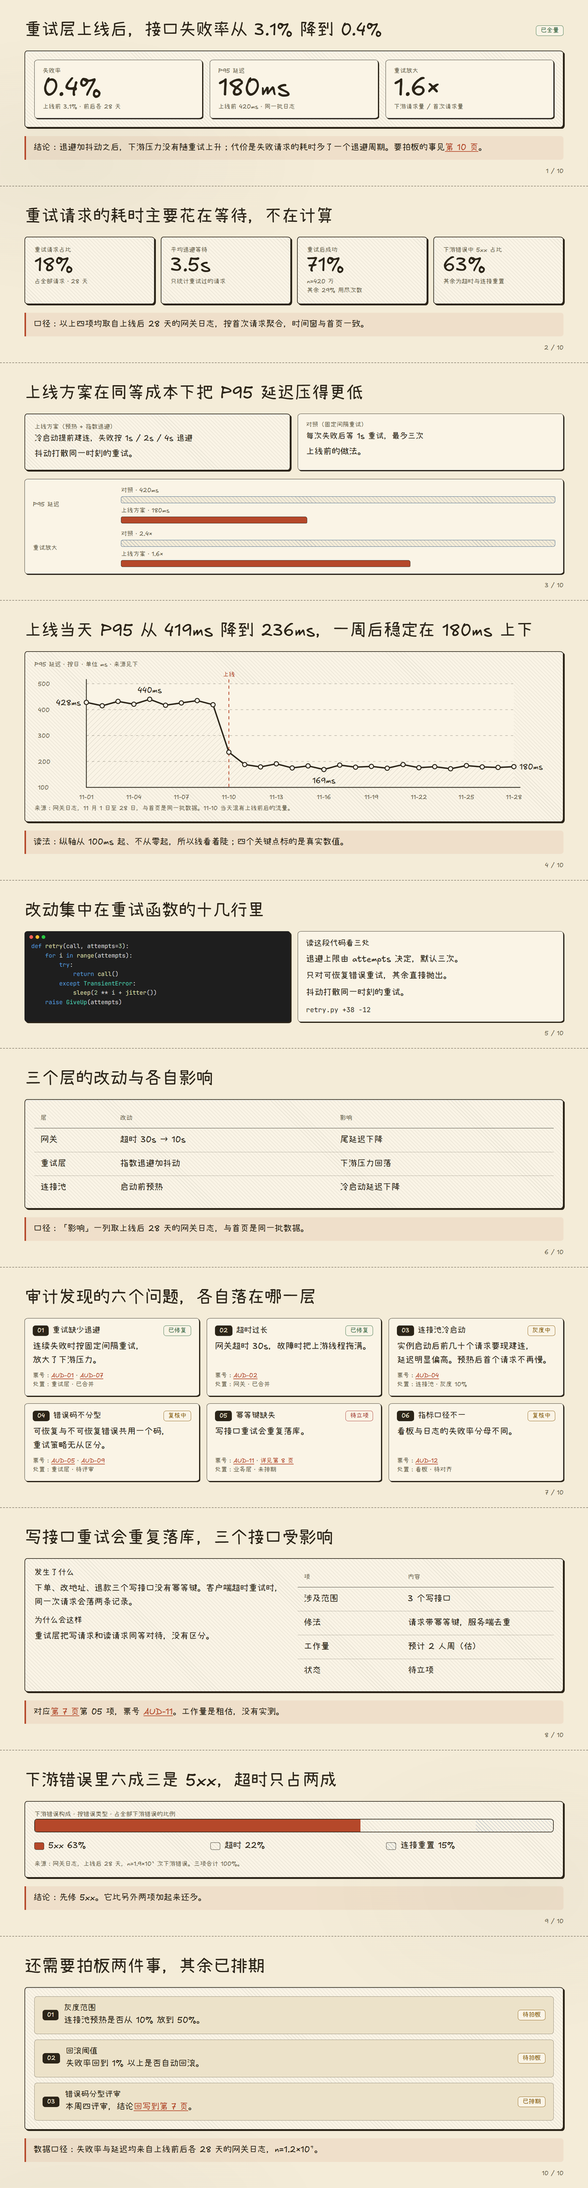
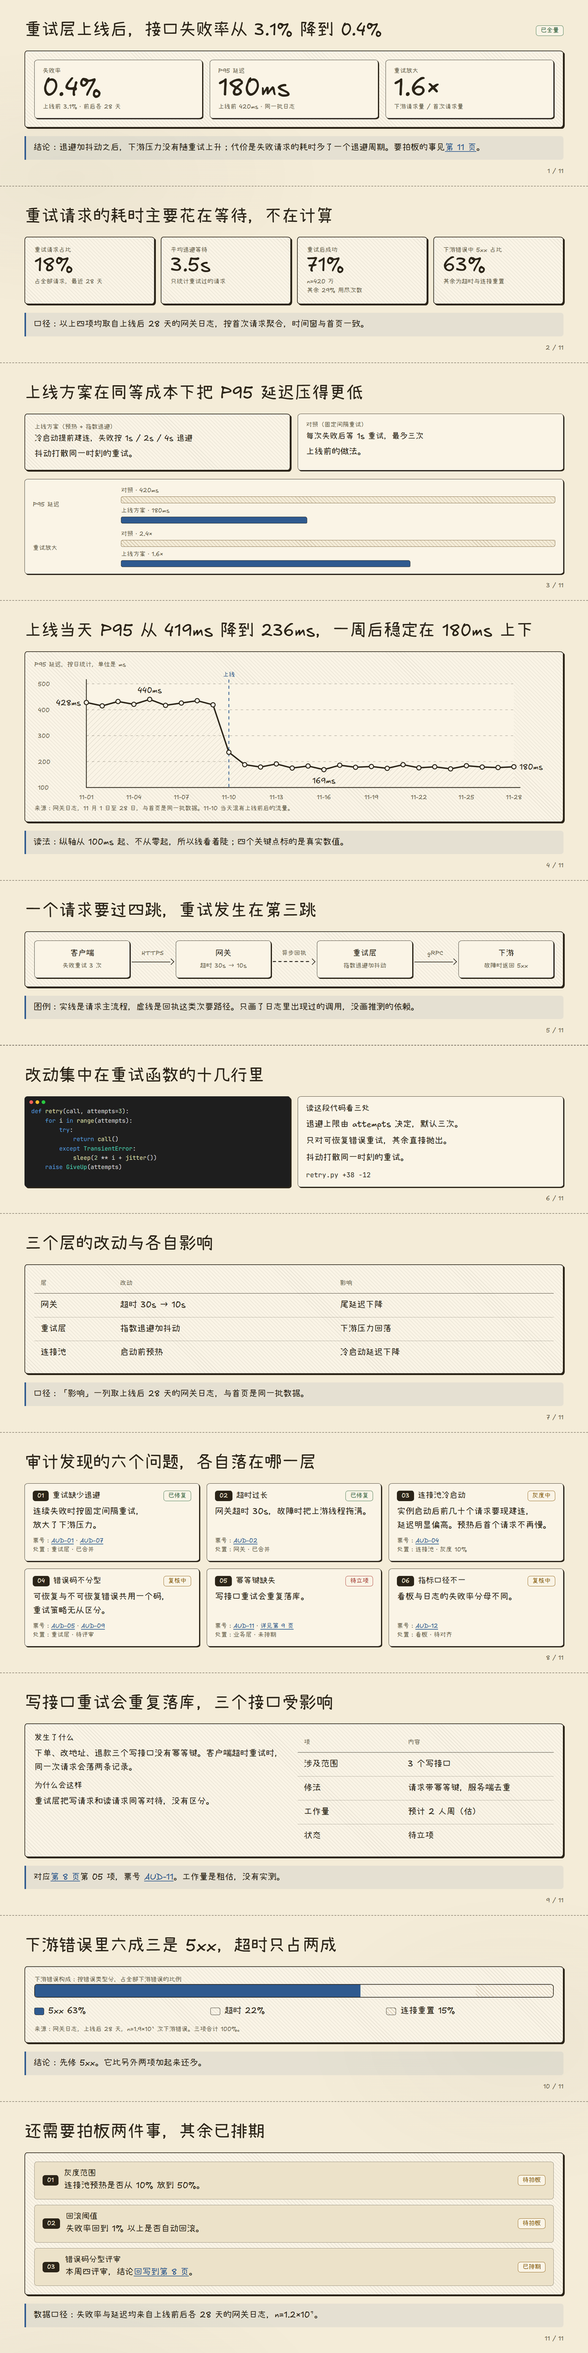
吸收 impeccable / Anthropic 官方 skill / superpowers / 中文写作规范：设计、文案与验证三轮升级
均为思路层面借鉴（impeccable Apache-2.0、Anthropic skills Apache-2.0、superpowers MIT、
zh-tech-writing / 中文文案排版指北 / document-style-guide / dataviz-skills MIT 或公共领域），
未拷用代码与文字；README 已列来源。

模板：
- 强调色从陶土橙换成批注蓝，对照色改铅笔棕——避开 frontend-design 点名的"米色底 + 陶土强调"AI 特征；
  语义色（绿 / 琥珀 / 红）单独一套
- 浏览器自带表面：选中色用墨色、键盘焦点用批注蓝环；图表数字用 tabular-nums
- 标题 text-wrap: balance、正文 text-wrap: pretty，减少孤字孤行
- 新增页型「链路」：.flow + .node + .link（dashed = 次要或异步），带标签的箭头，共 11 页

SKILL.md：
- 结构草案：先读材料再提问、只问会改变结构的问题、"用户给的 / 我补的"分两栏、结构有歧义时给两套骨架、
  粒度跟着读者走、3P 骨架、报体量；确认后固化一张数字口径表
- 验证改成三级：先截图目检（六问）再看探针（避免锚定）→ 可选读者测试（无上下文子代理只读成品回答五问）；
  说"已检"必须有本次运行的证据，降级和没做的检查写明
- 交付前收尾三遍：删（不承担信息的元素）／磨（对齐、分组、同类同写法）／清（调试残留）
- 更新已有 deck："改而不换"，顺手改事实性文案或加结论先问
- 内容纪律：AI 腔清单（大幅提升 / 开场结尾套话 / 硬凑三点 / 不是 A 而是 B / 宣传腔）、
  句长 ≤40 字与段落 ≤7 行、用读者懂的话称呼、术语全篇统一、千分号与范围单位、
  性能数字四披露（机器版本 / 负载 / 测量方法 / 时间窗）、歧义取更弱说法、限定词不压掉
- 视觉：Read 模式定位、排版节奏（行长 / 间距 / 编号只在真序列）、中文排版（中英文留空格、全角标点、
  半角数字）、浏览器表面、示意图规则（只画有依据的关系、节点 ≤6、线型含义）
- 图表补充：双 Y 轴不做、排行按大小排、不挑数据、能直接标不放图例、数字取整、标签不旋转、
  有波动给范围、颜色与纹理含义全文固定

探针：新增 cjkSpacing（中英文之间缺空格）与 longText（句子 >60 字或分句 >40 字），均为 WARN

Changed region(s): [[0.0312, 0.0, 0.9688, 0.9955], [0.9062, 0.0, 0.9688, 0.0311], [0.9375, 0.1244, 0.9688, 0.1555]]

diff --git a/assets/template.html b/assets/template.html
@@ -24,13 +24,13 @@
   --ink-35:rgba(43,36,24,.35);
   --ink-50:rgba(43,36,24,.5);
   --muted:#6a5f4b;
-  --accent:#b5482a;
-  --alt:#3d5a80;
+  --accent:#2f5a8f;   /* 批注蓝：链接、强调、主项 */
+  --alt:#7a5f36;      /* 铅笔棕：对照项、基线 */
   --good:#35693f;
   --warn:#8a5a0b;
   --bad:#a8322a;
   --hachure:repeating-linear-gradient(45deg,transparent 0 7px,rgba(43,36,24,.09) 7px 8.5px);
-  --hachure-alt:repeating-linear-gradient(45deg,transparent 0 7px,rgba(61,90,128,.28) 7px 8.5px);
+  --hachure-alt:repeating-linear-gradient(45deg,transparent 0 7px,rgba(122,95,54,.30) 7px 8.5px);
   --fs-stat:80px;
   --fs-readout:64px;
   --fs-title:56px;
@@ -53,6 +53,9 @@ body {
 }
 h1, h2, h3, p { margin:0; font-weight:400; } /* 手写体只有单字重：层级靠字号与颜色，不靠加粗（合成加粗会发糊） */
 a { color:var(--accent); text-decoration:underline; text-decoration-thickness:1.5px; text-underline-offset:4px; }
+/* 浏览器自带的表面也属于这套设计：选中色、键盘焦点环 */
+::selection { background:var(--ink); color:var(--paper); }
+a:focus-visible, [tabindex]:focus-visible { outline:3px solid var(--accent); outline-offset:4px; border-radius:4px; }
 
 .stage { width:1920px; transform-origin:top left; }
 .deck { width:1920px; }
@@ -83,6 +86,10 @@ a { color:var(--accent); text-decoration:underline; text-decoration-thickness:1.
 .t-readout { font-size:var(--fs-readout); line-height:1.15; }
 .t-stat    { font-size:var(--fs-stat); line-height:1.1; }
 .t-mono-md { font-family:var(--font-mono); font-size:var(--fs-mono-md); line-height:1.5; }
+/* 标题用 balance 折行、正文用 pretty 折行：减少标题孤字和末行只剩一个词的孤行（浏览器不支持时照旧） */
+.t-title, .t-h3 { text-wrap:balance; }
+.t-body, .t-micro { text-wrap:pretty; }
+.t-stat, .t-readout { font-variant-numeric:tabular-nums; }
 
 /* ---- 卡片四级：硬度逐级递减，不许倒挂，不许拿裸 --paper 填卡片 ---- */
 .card {
@@ -109,7 +116,7 @@ a { color:var(--accent); text-decoration:underline; text-decoration-thickness:1.
   padding:16px 24px;
   border-left:5px solid var(--accent);
   border-radius:0 9px 9px 0;
-  background:rgba(181,72,42,.08);
+  background:rgba(47,90,143,.08);
 }
 
 /* ---- 徽标：good = 定了不用再跟；warn = 进行中或等结论；bad = 没开始或被卡住 ---- */
@@ -164,6 +171,25 @@ a { color:var(--accent); text-decoration:underline; text-decoration-thickness:1.
 .legend { display:grid; grid-template-columns:repeat(3, minmax(0,1fr)); gap:16px 28px; margin-top:22px; }
 .legend > div { display:flex; align-items:center; gap:14px; }
 .legend i.sw { width:32px; height:24px; border:1.5px solid var(--ink); border-radius:4px 6px 5px 7px; flex:none; }
+
+/* ---- 链路：请求经过的节点和连线。实线 = 主流程，虚线 = 次要或异步；箭头上的标签说明关系 ---- */
+.flow { display:flex; align-items:stretch; }
+.flow > .node {
+  flex:1 1 0; min-width:0; display:flex; flex-direction:column; justify-content:center; gap:6px;
+  padding:24px 18px; text-align:center;
+  border:1.5px solid var(--ink); border-radius:11px 8px 12px 9px / 9px 12px 8px 11px;
+  background:var(--paper-2); box-shadow:3px 3px 0 var(--ink);
+}
+.flow > .node > .t-micro { margin:0; }
+.flow > .link { position:relative; flex:0 0 150px; align-self:center; height:64px; }
+.flow > .link::before { content:''; position:absolute; left:6px; right:18px; top:40px; border-top:2.5px solid var(--ink); }
+.flow > .link::after {
+  content:''; position:absolute; right:8px; top:40px; width:13px; height:13px;
+  border-top:2.5px solid var(--ink); border-right:2.5px solid var(--ink);
+  transform:translateY(-50%) rotate(45deg);
+}
+.flow > .link.dashed::before { border-top:none; height:3px; top:calc(40px - 1.5px); background:repeating-linear-gradient(90deg, var(--ink) 0 10px, transparent 10px 18px); }
+.flow > .link > span { position:absolute; left:0; right:0; top:0; text-align:center; font-size:var(--fs-label); line-height:1.3; color:var(--muted); white-space:nowrap; }
 
 /* ---- 趋势：折线图由脚本按数据画出来，坐标不手填 ---- */
 .chart-line svg { display:block; width:100%; height:auto; }
@@ -262,8 +288,8 @@ a { color:var(--accent); text-decoration:underline; text-decoration-thickness:1.
       </div>
     </div>
   </div>
-  <div class="anno rv">结论：退避加抖动之后，下游压力没有随重试上升；代价是失败请求的耗时多了一个退避周期。要拍板的事见<a href="#next">第 10 页</a>。</div>
-  <div class="pageno">1 / 10</div>
+  <div class="anno rv">结论：退避加抖动之后，下游压力没有随重试上升；代价是失败请求的耗时多了一个退避周期。要拍板的事见<a href="#next">第 11 页</a>。</div>
+  <div class="pageno">1 / 11</div>
 </section>
 
 <!-- ========== 页型 2 · 读数行：t-readout + 口径。数字与单位用 &nbsp; 焊死；每行不超过 18 个汉字，超了主动 <br> ========== -->
@@ -273,7 +299,7 @@ a { color:var(--accent); text-decoration:underline; text-decoration-thickness:1.
     <div class="card rv">
       <div class="t-label">重试请求占比</div>
       <div class="t-readout">18%</div>
-      <p class="t-micro">占全部请求&nbsp;·&nbsp;28 天</p>
+      <p class="t-micro">占全部请求，最近 28&nbsp;天</p>
     </div>
     <div class="card rv">
       <div class="t-label">平均退避等待</div>
@@ -292,7 +318,7 @@ a { color:var(--accent); text-decoration:underline; text-decoration-thickness:1.
     </div>
   </div>
   <div class="anno rv">口径：以上四项均取自上线后 28 天的网关日志，按首次请求聚合，时间窗与首页一致。</div>
-  <div class="pageno">2 / 10</div>
+  <div class="pageno">2 / 11</div>
 </section>
 
 <!-- ========== 页型 3 · A/B 对比：主推项 hachure 卡，对照项素色卡；对比条线型 + 色相双重区分 ========== -->
@@ -327,24 +353,43 @@ a { color:var(--accent); text-decoration:underline; text-decoration-thickness:1.
       <div class="bar" style="--v:1.6;--max:2.4"></div>
     </div>
   </div>
-  <div class="pageno">3 / 10</div>
+  <div class="pageno">3 / 11</div>
 </section>
 
 <!-- ========== 页型 4 · 趋势：折线图由数据画出来，坐标不手填。数值只标在起点、终点、最高、最低四个点上；data-mark 标事件。时间间隔不等的数不要用它画 ========== -->
 <section class="slide" id="trend">
   <header class="rv"><h2 class="t-title">上线当天 P95 从 419ms 降到 236ms，一周后稳定在 180ms 上下</h2></header>
   <div class="card rv">
-    <div class="t-label">P95 延迟 · 按日 · 单位 ms · 来源见下</div>
+    <div class="t-label">P95 延迟，按日统计，单位是 ms</div>
     <div class="chart-line" data-unit="ms" data-title="P95 延迟按日走势" data-mark="11-10" data-mark-text="上线"
       data-labels="11-01,11-02,11-03,11-04,11-05,11-06,11-07,11-08,11-09,11-10,11-11,11-12,11-13,11-14,11-15,11-16,11-17,11-18,11-19,11-20,11-21,11-22,11-23,11-24,11-25,11-26,11-27,11-28"
       data-values="428,415,432,421,440,417,426,435,419,236,188,179,191,175,183,169,186,178,181,174,188,176,180,172,184,179,177,180"></div>
     <p class="t-micro">来源：网关日志，11 月 1 日至 28 日，与首页是同一批数据。11-10 当天混有上线前后的流量。</p>
   </div>
   <div class="anno rv">读法：纵轴从 100ms 起、不从零起，所以线看着陡；四个关键点标的是真实数值。</div>
-  <div class="pageno">4 / 10</div>
+  <div class="pageno">4 / 11</div>
 </section>
 
-<!-- ========== 页型 5 · 代码窗：每窗不超过 22 行，只用 ASCII（JBM 子集只有 ASCII），< > { } 写成转义 ========== -->
+<!-- ========== 页型 5 · 链路：请求经过哪几跳。节点用 .node，连线用 .link（加 dashed 表示次要或异步），箭头上的标签说明关系。
+     只画材料里有依据的调用关系，不画推测的依赖 ========== -->
+<section class="slide" id="path">
+  <header class="rv"><h2 class="t-title">一个请求要过四跳，重试发生在第三跳</h2></header>
+  <div class="card rv">
+    <div class="flow">
+      <div class="node"><div class="t-h3">客户端</div><p class="t-micro">失败重试 3 次</p></div>
+      <div class="link"><span>HTTPS</span></div>
+      <div class="node"><div class="t-h3">网关</div><p class="t-micro">超时 30s → 10s</p></div>
+      <div class="link dashed"><span>异步回执</span></div>
+      <div class="node"><div class="t-h3">重试层</div><p class="t-micro">指数退避加抖动</p></div>
+      <div class="link"><span>gRPC</span></div>
+      <div class="node"><div class="t-h3">下游</div><p class="t-micro">故障时返回 5xx</p></div>
+    </div>
+  </div>
+  <div class="anno rv">图例：实线是请求主流程，虚线是回执这类次要路径。只画了日志里出现过的调用，没画推测的依赖。</div>
+  <div class="pageno">5 / 11</div>
+</section>
+
+<!-- ========== 页型 6 · 代码窗：每窗不超过 22 行，只用 ASCII（JBM 子集只有 ASCII），< > { } 写成转义 ========== -->
 <section class="slide">
   <header class="rv"><h2 class="t-title">改动集中在重试函数的十几行里</h2></header>
   <div class="grid2">
@@ -366,10 +411,10 @@ a { color:var(--accent); text-decoration:underline; text-decoration-thickness:1.
       <p class="t-mono-md" style="margin-top:auto;padding-top:16px">retry.py  +38 -12</p>
     </div>
   </div>
-  <div class="pageno">5 / 10</div>
+  <div class="pageno">6 / 11</div>
 </section>
 
-<!-- ========== 页型 6 · 简表：格子都是短语时才用 dtable。段落、链接多的账目改用页型 7。两列表把 data-cols 改成 "2" ========== -->
+<!-- ========== 页型 7 · 简表：格子都是短语时才用 dtable。段落、链接多的账目改用页型 8。两列表把 data-cols 改成 "2" ========== -->
 <section class="slide">
   <header class="rv"><h2 class="t-title">三个层的改动与各自影响</h2></header>
   <div class="card rv">
@@ -381,10 +426,10 @@ a { color:var(--accent); text-decoration:underline; text-decoration-thickness:1.
     </div>
   </div>
   <div class="anno rv">口径：「影响」一列取上线后 28 天的网关日志，与首页是同一批数据。</div>
-  <div class="pageno">6 / 10</div>
+  <div class="pageno">7 / 11</div>
 </section>
 
-<!-- ========== 页型 7 · 账目卡阵：N 层 × 属性的账目用均质卡。每卡固定四槽：① 徽标行 ② 正文 ③ 票号链接 ④ 处置；③④ 沉底对齐。示例里的票号链接是 href="#" 占位，要换成真实地址 ========== -->
+<!-- ========== 页型 8 · 账目卡阵：N 层 × 属性的账目用均质卡。每卡固定四槽：① 徽标行 ② 正文 ③ 票号链接 ④ 处置；③④ 沉底对齐。示例里的票号链接是 href="#" 占位，要换成真实地址 ========== -->
 <section class="slide" id="ledger">
   <header class="rv"><h2 class="t-title">审计发现的六个问题，各自落在哪一层</h2></header>
   <div class="grid3">
@@ -444,7 +489,7 @@ a { color:var(--accent); text-decoration:underline; text-decoration-thickness:1.
       </div>
       <p class="t-body" style="margin-top:12px">写接口重试会重复落库。</p>
       <div style="margin-top:auto;padding-top:12px">
-        <p class="t-micro">票号：<a href="#">AUD-11</a> · <a href="#idempotency">详见第 8 页</a></p>
+        <p class="t-micro">票号：<a href="#">AUD-11</a> · <a href="#idempotency">详见第 9 页</a></p>
         <p class="t-micro">处置：业务层 · 未排期</p>
       </div>
     </div>
@@ -461,10 +506,10 @@ a { color:var(--accent); text-decoration:underline; text-decoration-thickness:1.
       </div>
     </div>
   </div>
-  <div class="pageno">7 / 10</div>
+  <div class="pageno">8 / 11</div>
 </section>
 
-<!-- ========== 页型 8 · 单点展开：把一个问题单独讲透。左边讲发生了什么、为什么，右边一张"项 / 内容"两列表放范围、修法、工作量 ========== -->
+<!-- ========== 页型 9 · 单点展开：把一个问题单独讲透。左边讲发生了什么、为什么，右边一张"项 / 内容"两列表放范围、修法、工作量 ========== -->
 <section class="slide" id="idempotency">
   <header class="rv"><h2 class="t-title">写接口重试会重复落库，三个接口受影响</h2></header>
   <div class="card rv">
@@ -484,15 +529,15 @@ a { color:var(--accent); text-decoration:underline; text-decoration-thickness:1.
       </div>
     </div>
   </div>
-  <div class="anno rv">对应<a href="#ledger">第 7 页</a>第 05 项，票号 <a href="#">AUD-11</a>。工作量是粗估，没有实测。</div>
-  <div class="pageno">8 / 10</div>
+  <div class="anno rv">对应<a href="#ledger">第 8 页</a>第 05 项，票号 <a href="#">AUD-11</a>。工作量是粗估，没有实测。</div>
+  <div class="pageno">9 / 11</div>
 </section>
 
-<!-- ========== 页型 9 · 构成：百分比堆叠条。段宽就是占比（--v），合计必须是 100；主角用实色，其余用斜纹 ========== -->
+<!-- ========== 页型 10 · 构成：百分比堆叠条。段宽就是占比（--v），合计必须是 100；主角用实色，其余用斜纹 ========== -->
 <section class="slide" id="mix">
   <header class="rv"><h2 class="t-title">下游错误里六成三是 5xx，超时只占两成</h2></header>
   <div class="card rv">
-    <div class="t-label">下游错误构成 · 按错误类型 · 占全部下游错误的比例</div>
+    <div class="t-label">下游错误构成：按错误类型分，占全部下游错误的比例</div>
     <div class="stack">
       <i class="sw a" style="--v:63"></i><i class="sw b" style="--v:22"></i><i class="sw c" style="--v:15"></i>
     </div>
@@ -504,10 +549,10 @@ a { color:var(--accent); text-decoration:underline; text-decoration-thickness:1.
     <p class="t-micro" style="margin-top:22px">来源：网关日志，上线后 28 天，n=1.9×10⁵ 次下游错误。三项合计 100%。</p>
   </div>
   <div class="anno rv">结论：先修 5xx。它比另外两项加起来还多。</div>
-  <div class="pageno">9 / 10</div>
+  <div class="pageno">10 / 11</div>
 </section>
 
-<!-- ========== 页型 10 · 尾页：收在要拍板的事和下一步，不写"谢谢 / 欢迎交流" ========== -->
+<!-- ========== 页型 11 · 尾页：收在要拍板的事和下一步，不写"谢谢 / 欢迎交流" ========== -->
 <section class="slide" id="next">
   <header class="rv"><h2 class="t-title">还需要拍板两件事，其余已排期</h2></header>
   <div class="card rv" style="display:flex;flex-direction:column;gap:18px">
@@ -531,13 +576,13 @@ a { color:var(--accent); text-decoration:underline; text-decoration-thickness:1.
       <span class="badge solid">03</span>
       <div style="flex:1;min-width:0">
         <h3 class="t-h3">错误码分型评审</h3>
-        <p class="t-body">本周四评审，结论<a href="#ledger">回写到第 7 页</a>。</p>
+        <p class="t-body">本周四评审，结论<a href="#ledger">回写到第 8 页</a>。</p>
       </div>
       <span class="badge warn">已排期</span>
     </div>
   </div>
   <div class="anno rv">数据口径：失败率与延迟均来自上线前后各 28 天的网关日志，n=1.2×10⁷。</div>
-  <div class="pageno">10 / 10</div>
+  <div class="pageno">11 / 11</div>
 </section>
 
 </div>

diff --git a/README.md b/README.md
@@ -25,11 +25,11 @@ git clone https://github.com/Liears/hand-drawn-deck.git ~/.claude/skills/hand-dr
 
 | 文件 | 内容 |
 |---|---|
-| `SKILL.md` | 工作流（结构草案先行 → 拼装 → 字体子集 → 两级验证 → 交付）、更新已有 deck 的流程、内容纪律、视觉规范、已知坑速查、自检清单 |
-| `assets/template.html` | 起手模板：十个页型各占一页，是"类名契约"的参考实现。字体文件不进仓库，所以在本目录直接打开它看到的不是手写体（页顶会有红色提示）；拷到 deck 目录并跑一次字体子集脚本之后才是 |
-| `assets/template-preview.png` | 模板渲染好的样子：十页拼成一张长图，小赖体 + Excalifont 已加载 |
+| `SKILL.md` | 工作流（结构草案先行 → 拼装 → 字体子集 → 三级验证 → 收尾 → 交付）、更新已有 deck 的流程、内容纪律、视觉规范、已知坑速查、自检清单 |
+| `assets/template.html` | 起手模板：十一个页型各占一页，是"类名契约"的参考实现。字体文件不进仓库，所以在本目录直接打开它看到的不是手写体（页顶会有红色提示）；拷到 deck 目录并跑一次字体子集脚本之后才是 |
+| `assets/template-preview.png` | 模板渲染好的样子：十一页拼成一张长图，小赖体 + Excalifont 已加载 |
 | `scripts/refresh_cjk_subset.py` | 字体子集刷新：扫描 HTML 实际用到的非 ASCII 字符 → Xiaolai 子集化（22MB → 约 75KB）→ 生成 fonts.css 并同步 `?v=`，自带字形覆盖自检 |
-| `scripts/verify-deck.mjs` | 字符级探针：逐字符确认由自托管字体渲染，另查溢出、字号下限、页码连续、藏页、资源加载、占位符残留、重复 id、页内链接、三种宽度下的横向滚动；退出码可用 |
+| `scripts/verify-deck.mjs` | 字符级探针：逐字符确认由自托管字体渲染，另查溢出、字号下限、页码连续、藏页、资源加载、占位符残留、重复 id、页内链接、三种宽度下的横向滚动、中英文间距、超长句；退出码可用 |
 | `scripts/shot-deck.mjs` | 布局级目检：逐页截图（自动点亮滚入动画），配合读图工具查"文字撕列"这类探针查不出的问题 |
 | `scripts/_browser.mjs` | 上面两个脚本共用：按平台定位 playwright 与 chromium，接受 URL 或本地路径 |
 | `references/pitfalls.md` | 故障手册：按症状索引的踩坑记录 |
@@ -39,7 +39,10 @@ git clone https://github.com/Liears/hand-drawn-deck.git ~/.claude/skills/hand-dr
 - 墨线 `#2b2418`、羊皮纸 `#f4ecd8`，斜线纹理主框、不规整圆角、实色偏移阴影，卡片分四级
 - 字体三件自托管：Excalifont（拉丁，官方 npm 子集）、Xiaolai（中文，子集化）、JetBrains Mono（代码）
 - 字号下限 20px；设计宽 1920 加 `fit()` 视口缩放（上限 1.3×）；滚动式，不翻页
-- 两级验证：探针查字符级，截图查布局级
+- 三级验证：截图目检（布局）、字符级探针、可选的读者测试（无上下文的 agent 只读成品回答几个问题）
+- 配色：墨线加羊皮纸底，强调色是批注蓝，语义色（绿 / 琥珀 / 红）单独一套
+- 文本纪律：中英文之间留空格、单句不超过 40 字、段落不超过 7 行、删掉空话和硬凑的三点
+- 示意图：线性链路用 `.flow`，实线是主流程、虚线是次要或异步，只画有依据的关系
 - 数字诚实性：同一数字全 deck 一致、口径必标、诚实结论优先于好看结论
 - 图表数据驱动：条宽、段宽、折线坐标由数字算出来，不手填；不做断轴、3D、渐变
 
@@ -48,3 +51,11 @@ git clone https://github.com/Liears/hand-drawn-deck.git ~/.claude/skills/hand-dr
 2026-09-09 在 DeepAnalyze 编码能力汇报 deck 的实作中定型。踩坑记录见 `SKILL.md` 的"已知坑速查"和 `references/pitfalls.md`。
 
 图表部分的思路参考了 [Lieflat Charts](https://github.com/larashero3-dotcom/lieflat-charts)（PolyForm Noncommercial 许可）：数值与视觉成正比、断轴的替代方案、颜色不能是唯一线索、同一页元素指向同一口径等。只借鉴了思路，没有使用它的代码和文字。
+
+其它借鉴（均为思路层面）：
+- [impeccable](https://github.com/pbakaus/impeccable)（Apache-2.0）：Read 模式定位、收尾的删 / 磨 / 清、浏览器自带表面、先目检后看探针
+- Anthropic 官方 skills（Apache-2.0）：`frontend-design`（设计克制、AI 味清单、文案原则）、`internal-comms`（最重要先讲、粒度随读者）、`doc-coauthoring`（读者测试）
+- [superpowers](https://github.com/obra/superpowers)（MIT）：只问会改变结构的问题、"用户给的 / 我补的"分栏、数字口径表、没有新证据不声称完成
+- [zh-tech-writing](https://github.com/leter/zh-tech-writing)（MIT）、[中文文案排版指北](https://github.com/sparanoid/chinese-copywriting-guidelines)（MIT）、[document-style-guide](https://github.com/ruanyf/document-style-guide)（公共领域）：AI 腔清单、句长与段落上限、中英文混排规则
+- [dataviz-skills](https://github.com/holtzy/dataviz-skills)（MIT）：图表错误清单（双 Y 轴、挑数据、排序、图例、取整、波动范围）
+- ZCode 的 Excalidraw 插件与 [excalidraw-skill](https://github.com/robonuggets/excalidraw-skill)（MIT）：示意图只画有依据的关系、线型表达含义、箭头带标签

diff --git a/references/pitfalls.md b/references/pitfalls.md
@@ -56,6 +56,12 @@
 - 原因：grid 把矮卡拉到等高，多出来的高度堆在卡片底部，看上去像底部破了个洞。
 - 修法：每卡加 `display:flex; flex-direction:column`，第 ③④ 槽的容器设 `margin-top:auto; padding-top:12px`。行高差被吸收成卡片中部的留白，所有卡的链接行对齐到同一条底线。
 
+### 中英文之间没有空格，或者一句话太长
+
+- 症状：`使用GitHub管理`、`失败率从3.1%降到0.4%`；一句话读不完，一口气说了三件事。
+- 原因：中文没有词间空格，手写时容易把英文和数字直接贴在汉字上；长句是写的时候没拆。
+- 修法：中文与英文、数字之间留一个空格；单句超过 40 字就拆。探针的 `cjkSpacing` 和 `longText` 会逐处点名。
+
 ### 页内链接点了没反应，或者跳到了另一页
 
 - 症状：`<a href="#ledger">` 点了没动静，或者跳到了前面一页。
